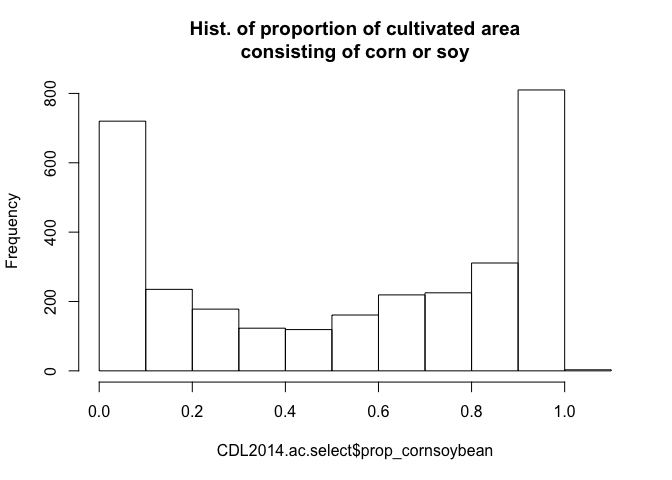
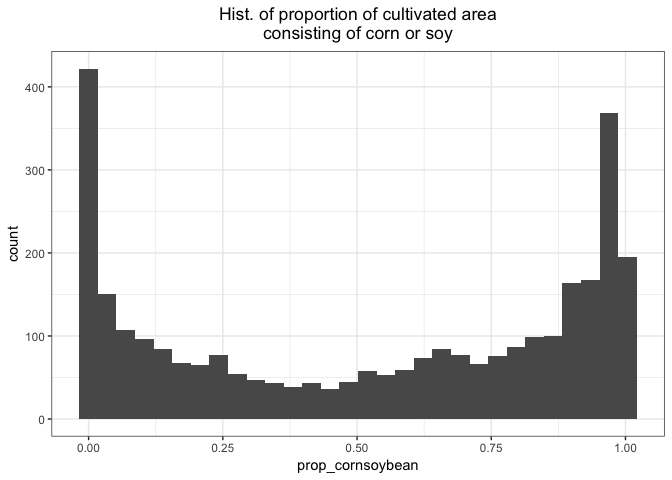
ggplot hist

diff --git a/README.md b/README.md
@@ -135,7 +135,9 @@ CDL2014.ac.select %>%
          prop_cornsoybean = (Corn_all + Soybeans_all) / Total_cult_ac) ->
   CDL2014.ac.select
 
-hist(CDL2014.ac.select$prop_cornsoybean, main="Hist. of proportion of cultivated area\nconsisting of corn or soy")
+ggplot(CDL2014.ac.select, aes(x=prop_cornsoybean)) + geom_histogram(bins=30) +
+  ggtitle("Hist. of proportion of cultivated area\nconsisting of corn or soy") +
+  theme(plot.title = element_text(hjust = 0.5))
 ```
 
 ![](README_files/figure-markdown_github-ascii_identifiers/unnamed-chunk-5-1.png)
@@ -382,13 +384,11 @@ Nbalance.cornsoy %>%
            Corn.Acres) ->
   Nbalance.cornsoy
 
-ggplot(Nbalance.cornsoy, aes(x=Nbal)) + geom_histogram() +
+ggplot(Nbalance.cornsoy, aes(x=Nbal)) + geom_histogram(bins=30) +
   xlab("County Avg. N-Balance (lbs. N / ac)") +
   ggtitle("Histogram of average corn N-balance for high-corn/soy counties") +
   theme(plot.title = element_text(hjust = 0.5))
 ```
-
-    ## `stat_bin()` using `bins = 30`. Pick better value with `binwidth`.
 
 ![](README_files/figure-markdown_github-ascii_identifiers/unnamed-chunk-17-1.png)
 
